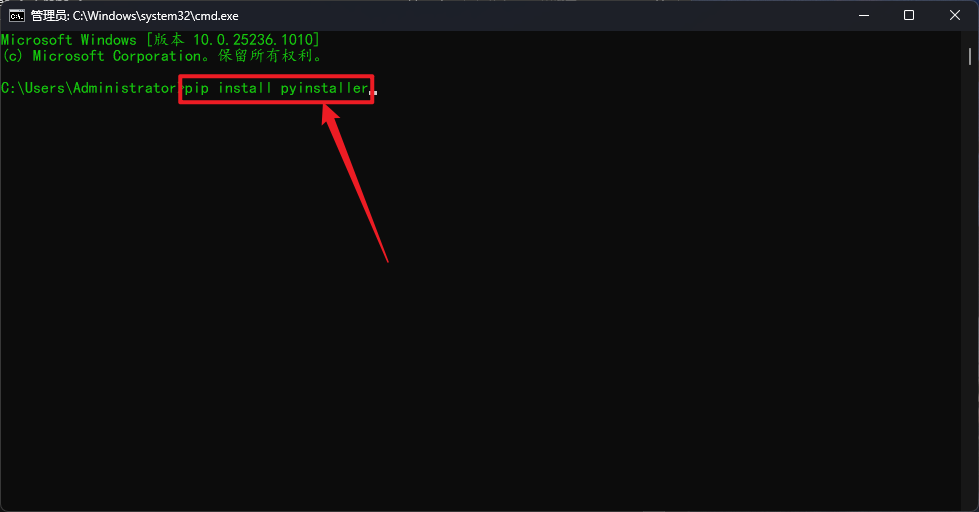
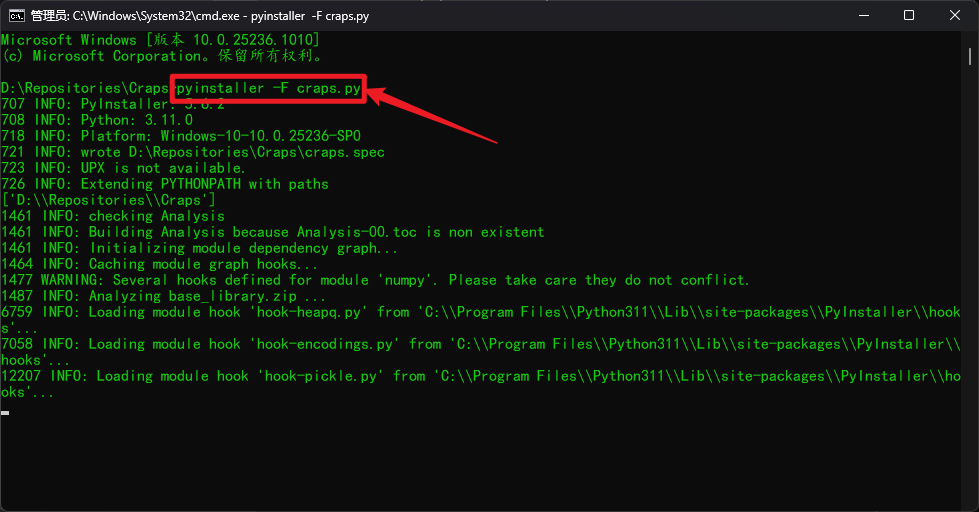
更新Readme.md

diff --git a/README.md b/README.md
@@ -13,8 +13,28 @@ pip install pyinstaller
 
 比如"D:\Repositories\Craps"
 
-![](./readme/资源管理器D.png)
+![](./Readme/资源管理器D.png)
 
 3.在搜索框内输入cmd并回车
 
-![](./readme/windows资源管理器搜索框cmd.png)
+![](./Readme/windows资源管理器搜索框cmd.png)
+
+4.输入如下命令开始编译
+
+```bash
+pyinstaller -F craps.py
+```
+
+![](.\Readme\cmdpyinstallercraps.py.png)
+
+5.打开目录下的dist文件夹
+
+![](./Readme/opendist.png)
+
+6.打开目录下的craps.exe
+
+![](./Readme/opencraps.png)
+
+7.程序开始运行
+
+![](./Readme/程序运行.png)
